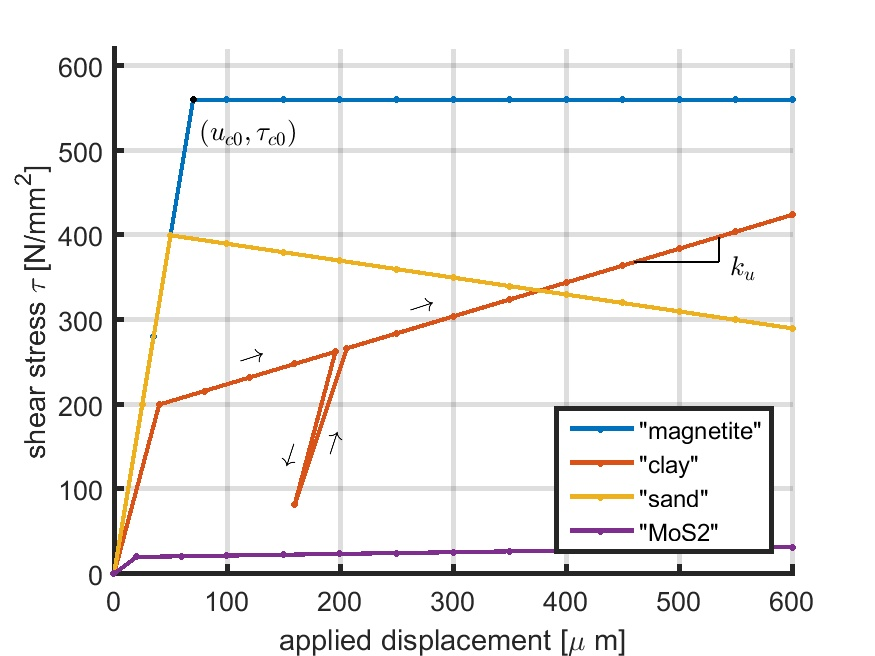
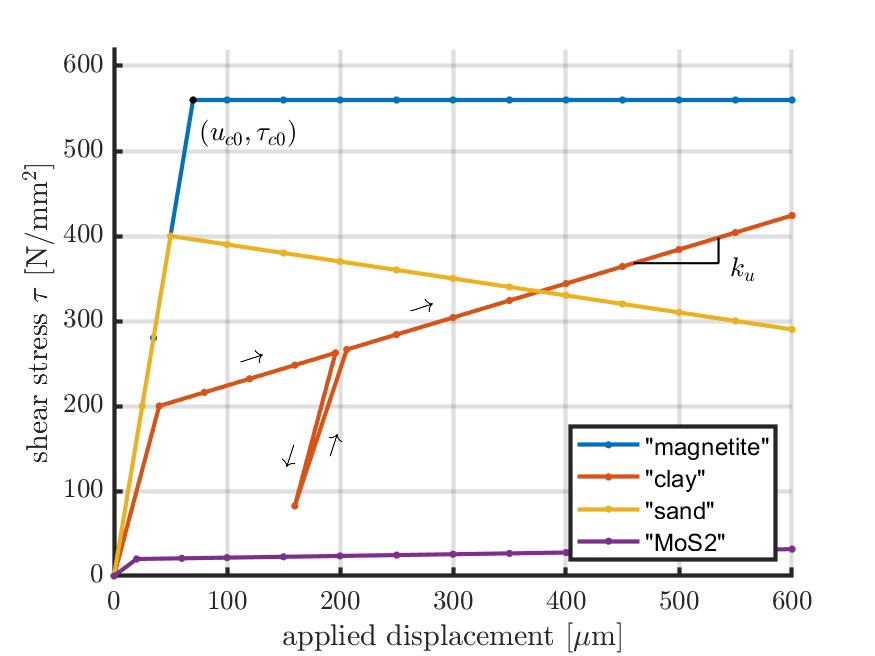
picture local plasticity

diff --git a/examples/plot_results.m b/examples/plot_results.m
@@ -10,8 +10,8 @@ expnam = strvcat('cattaneo', 'carter2d', 'bentall', 'visc_cylindr', 'catt_to_car
                  'subsurf', 'spence35', 'mbench', 'kpec', 'wheelflat', 'tractcurv', 'conformal', ...
                  'ertz_temperature', 'plastic_3bl', 'fastsim', 'veldep_fric');
 % expnam = strvcat('kpec');
-% expnam = strvcat('plastic_3bl');
-expnam = strvcat('mbench');
+expnam = strvcat('plastic_3bl');
+% expnam = strvcat('mbench');
 
 pause_after_plot = 1 * (size(expnam,1)>1);
 print_figures = 0;
@@ -782,8 +782,9 @@ if (~isempty(strmatch('plastic_3bl',expnam)))
 
    figure(1); clf; hold on;
    plot(1000*shft, px, '.-', 'markersize',12);
-   xlabel('applied displacement [\mu m]');
-   ylabel('shear stress \tau [N/mm^2]');
+   xlabel('applied displacement [$\mathrm{\mu{}m}$]', 'interpreter','latex');
+   ylabel('shear stress $\tau$ [$\mathrm{N/mm^2}$]', 'interpreter','latex');
+   set(gca,'ticklabelinterpreter','latex');
    axis([0 600 0 620]); grid on
    legend('"magnetite"','"clay"','"sand"','"MoS2"', 'location', 'southeast');
    text(110, 255, '\rightarrow', 'rotation', 18);
